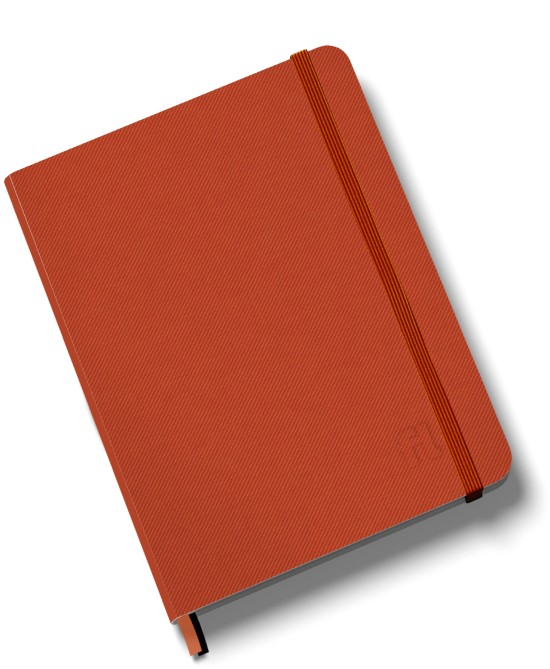
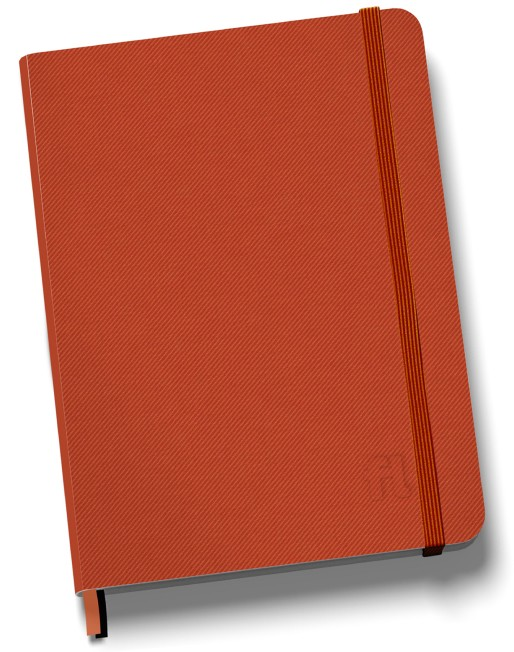
change proper img and delete rotate

diff --git a/src/sass/layout/_hero.scss b/src/sass/layout/_hero.scss
@@ -134,9 +134,6 @@
 }
 .hero__swiper-slide.swiper-slide {
   margin: 0;
-  @media screen and (min-width: 960px) {
-    transform: rotate(15deg);
-  }
 }
 .swiper-slide__container > picture {
   object-fit: cover;
